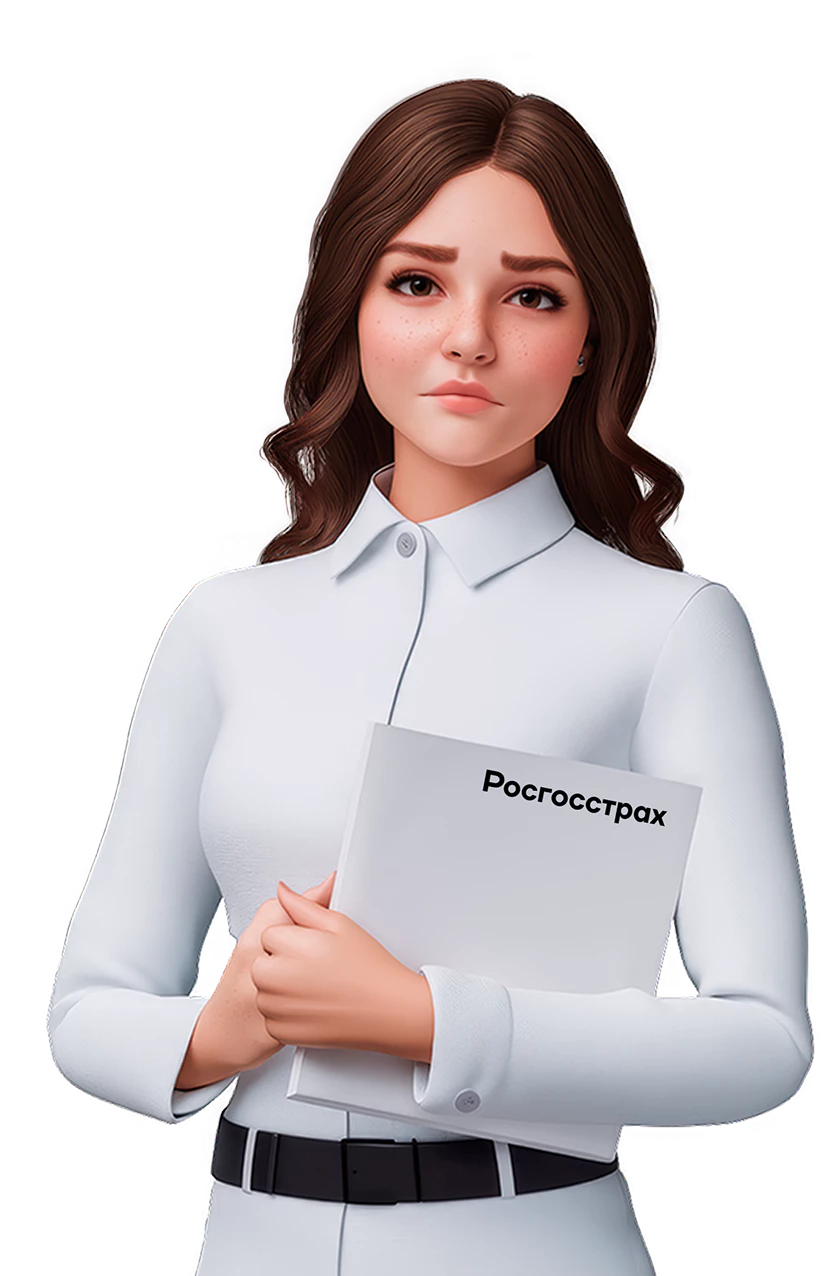
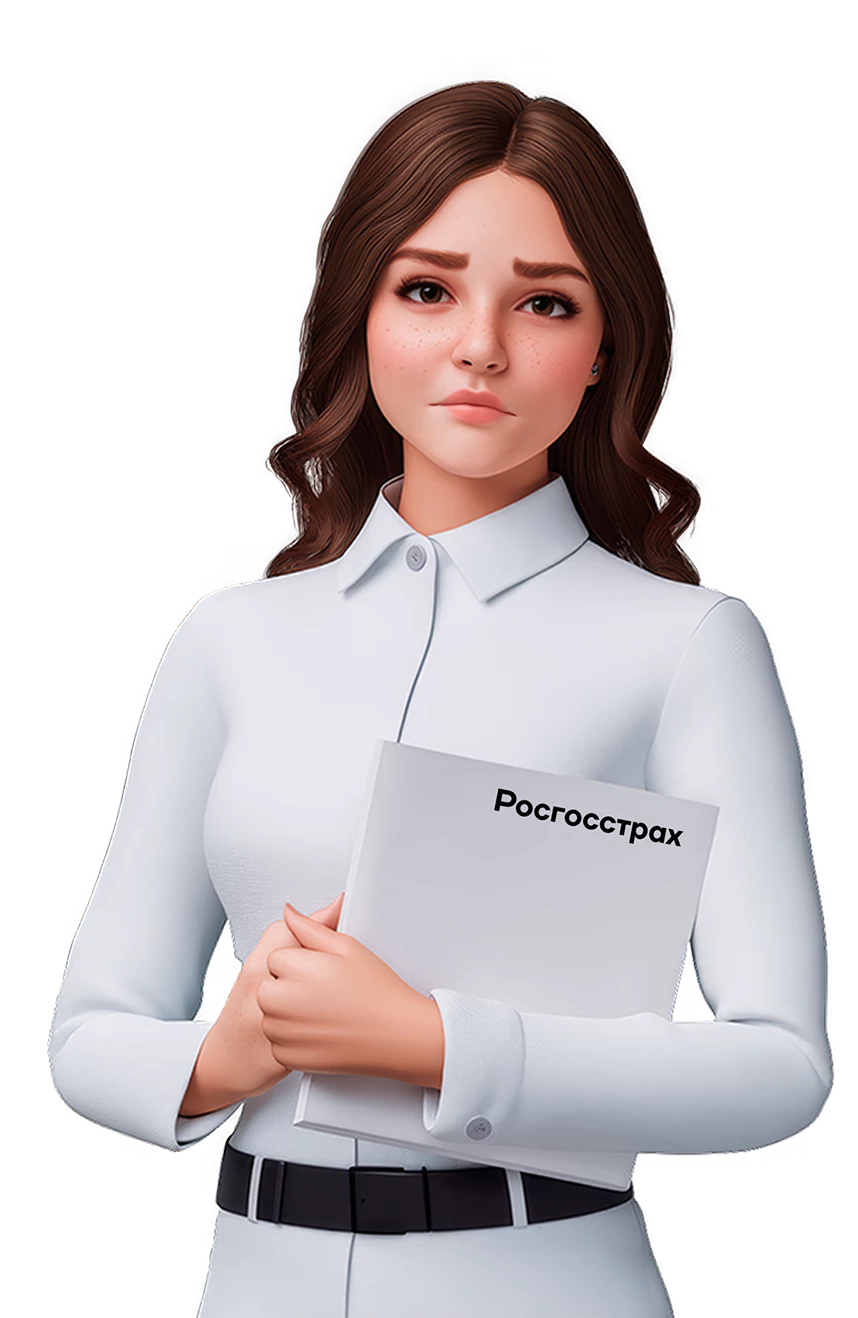
6.03

diff --git a/src/pages/voltagePage/VoltagePage.js b/src/pages/voltagePage/VoltagePage.js
@@ -1,16 +1,30 @@
-import React, { useState } from 'react'
+import React, { useState, useEffect } from 'react'
 import Replica from '../../components/replica/Replica'
 import СontrolPanel from '../../components/controlPanel/СontrolPanel'
-
+import VoltageFinal from '../../components/voltageFinal/VoltageFinal'
 import { voltageScreens } from './voltageScreens'
 import coinIcon from '../../resources/voltage/coin_icon.svg'
-
 import './VoltagePage.scss'
-//img
 
 function VoltagePage() {
 	// Состояние для текущего индекса экрана
 	const [currentScreen, setCurrentScreen] = useState(0)
+
+	// Предзагрузка всех фоновых изображений при монтировании
+	useEffect(() => {
+		const images = [
+			require('../../resources/voltage/volt_bg_1.webp'),
+			require('../../resources/voltage/volt_bg_2.webp'),
+			require('../../resources/voltage/volt_bg_3.webp'),
+			require('../../resources/voltage/volt_bg_4.webp'),
+			require('../../resources/voltage/volt_bg_5.webp'),
+			require('../../resources/voltage/volt_bg_6.webp'),
+		]
+		images.forEach(src => {
+			const img = new Image()
+			img.src = src
+		})
+	}, []) // Пустой массив зависимостей — выполняется один раз при монтировании
 
 	// Хендлер переключения
 	const handleNextScreen = () => {
@@ -34,27 +48,23 @@ function VoltagePage() {
 		textButton,
 		invisibleButtonProps,
 		coinIconProps,
+		voltageFinal,
 	} = voltageScreens[currentScreen]
 
 	return (
 		<div className={`screen ${bgClassName || ''}`}>
-			{/* <img className='screen__bg' src={bg} alt='background' /> */}
-
 			{sidebar && (
 				<div className='screen__sidebar-wrapper'>
 					<img src={sidebar} alt='sidebar' />
 				</div>
 			)}
-
 			{boy && <img className='screen__boy' src={boy} alt='boy' />}
-
 			{replicaBoyProps.replicaText && (
 				<Replica
 					text={replicaBoyProps.replicaText}
 					className={replicaBoyProps.className}
 				/>
 			)}
-
 			{womanProps.woman && (
 				<img
 					className={`screen__woman ${womanProps.className || ''}`}
@@ -62,7 +72,6 @@ function VoltagePage() {
 					alt='woman'
 				/>
 			)}
-
 			{replicaWomanProps.replicaText && (
 				<Replica
 					text={replicaWomanProps.replicaText}
@@ -70,7 +79,6 @@ function VoltagePage() {
 					span={replicaWomanProps.replicaTextSpan}
 				/>
 			)}
-
 			{textСontrolPanel && (
 				<СontrolPanel
 					textBtn={textButton}
@@ -78,14 +86,12 @@ function VoltagePage() {
 					onNext={handleNextScreen}
 				/>
 			)}
-
 			{invisibleButtonProps.isVisible && (
 				<button
 					className={`invisible-button ${invisibleButtonProps.className || ''}`}
 					onClick={handleNextScreen}
 				></button>
 			)}
-
 			{coinIconProps.coinIcon && (
 				<img
 					className={`coin-icon ${coinIconProps.className || ''}`}
@@ -93,6 +99,8 @@ function VoltagePage() {
 					alt='icon'
 				/>
 			)}
+
+			{voltageFinal && <VoltageFinal />}
 		</div>
 	)
 }

diff --git a/src/components/voltageFinal/VoltageFinal.js b/src/components/voltageFinal/VoltageFinal.js
@@ -3,6 +3,7 @@ import React, { useState } from 'react'
 // img
 import icon1 from '../../resources/voltage/key_icon.svg'
 import icon2 from '../../resources/voltage/speaker_icon.svg'
+import attentionIcon from '../../resources/voltage/attention_icon.svg'
 
 import './VoltageFinal.scss'
 
@@ -38,10 +39,48 @@ function VoltageFinal() {
 
 			<p className='title'>Когда необходимо включить этот риск в полис?</p>
 
-			<ul>
-				<li></li>
-				<li></li>
+			<ul className='list-one'>
+				<li>Дом построен в 90-х или раньше.</li>
+				<li>У вас дорогостоящая техника.</li>
 			</ul>
+
+			<div className='accent'>
+				Добавить риск «Скачок напряжения» получится, только если один из рисков
+				— пожар, затопление или кража — уже включены в полис.
+			</div>
+
+			<div className='exception'>
+				<div className='column'>
+					<p className='title'>Важно</p>
+					<span>
+						За каждую вещь можно компенсировать до 10% от общего лимита
+						«Движимое имущество».
+					</span>
+					<span>
+						Например, вы поставили лимит — 500 000 ₽. Значит, телевизор за 50
+						000 ₽ можно компенсировать полностью.
+					</span>
+				</div>
+
+				<div className='column'>
+					<p className='title'>Исключение</p>
+					<ul>
+						<li>
+							Включили приборы, не предназначенные для бытового использования,
+							чем вызвали перегрузку сети.
+						</li>
+						<li>Вы использовали технику не по назначению.</li>
+					</ul>
+				</div>
+			</div>
+
+			<div className='accent'>
+				<img src={attentionIcon} alt='icon' />
+				Это демоверсия исключений, мы уместили только некоторые, 
+				<a href='##'>вот основные</a> .
+			</div>
+
+			<button className='btn'>Получить главный приз</button>
 		</div>
 	)
 }

diff --git a/src/components/voltageFinal/VoltageFinal.scss b/src/components/voltageFinal/VoltageFinal.scss
@@ -1,0 +1,145 @@
+.voltage-final {
+	background: #fff;
+	width: 60%;
+	border-radius: 48px;
+	filter: drop-shadow(0 4px 30px rgba(0, 0, 0, 0.25));
+
+	position: absolute;
+	left: 32%;
+	top: 10%;
+
+	padding: 36px 40px 28px;
+
+	svg {
+		position: absolute;
+		left: -82px;
+		top: 180px;
+	}
+
+	.title {
+		font-weight: 400;
+		font-size: 32px;
+		line-height: 90%;
+		color: #1a1d1e;
+	}
+
+	.wrapper {
+		display: flex;
+		align-items: center;
+		gap: 16px;
+		margin: 24px 0 32px;
+
+		.column {
+			width: 50%;
+			background: #f0f6f6;
+			border-radius: 20px;
+			overflow: hidden;
+			height: 90px;
+			padding: 16px;
+			position: relative;
+
+			p {
+				font-weight: 400;
+				font-size: 18px;
+				line-height: 130%;
+				color: #1a1d1e;
+			}
+
+			img {
+				position: absolute;
+				right: 26px;
+			}
+
+			&:first-child {
+				img {
+					bottom: -70px;
+				}
+			}
+			&:last-child {
+				img {
+					bottom: -80px;
+				}
+			}
+		}
+	}
+
+	.list-one {
+		display: flex;
+		align-items: center;
+		gap: 24px;
+		margin: 16px 0 24px;
+		list-style: disc;
+		li {
+			width: 50%;
+			font-weight: 400;
+			font-size: 18px;
+			line-height: 150%;
+			color: #1a1d1e;
+			margin-left: 20px;
+			padding-right: 20px;
+		}
+	}
+
+	.accent {
+		border-radius: 20px;
+		background: #f0f6f6;
+		padding: 16px 20px 20px;
+		margin-bottom: 32px;
+
+		display: flex;
+		align-items: center;
+		font-weight: 400;
+		font-size: 18px;
+		line-height: 140%;
+		color: #000;
+		img {
+			margin-right: 12px;
+		}
+		a {
+			color: #000;
+			font-weight: 600;
+			text-decoration: underline;
+		}
+	}
+
+	.exception {
+		display: flex;
+		gap: 24px;
+		margin-bottom: 24px;
+
+		.column {
+			width: 50%;
+		}
+
+		.title {
+			margin-bottom: 12px;
+		}
+
+		span {
+			display: block;
+			font-weight: 400;
+			font-size: 18px;
+			line-height: 140%;
+			color: #1a1d1e;
+			margin-bottom: 8px;
+		}
+		ul {
+			list-style: disc;
+			li {
+				font-weight: 400;
+				font-size: 18px;
+				line-height: 150%;
+				color: #1a1d1e;
+				margin-left: 20px;
+				padding-right: 20px;
+			}
+		}
+	}
+
+	.btn {
+		border: 10px solid #fff;
+		position: absolute;
+		right: 60px;
+		bottom: -40px;
+	}
+}

diff --git a/src/pages/voltagePage/voltageScreens.js b/src/pages/voltagePage/voltageScreens.js
@@ -38,6 +38,7 @@ export const voltageScreens = [
 			coinIcon: false,
 			className: '',
 		},
+		voltageFinal: false,
 	},
 	{
 		id: 2,
@@ -68,6 +69,7 @@ export const voltageScreens = [
 			coinIcon: false,
 			className: '',
 		},
+		voltageFinal: false,
 	},
 	{
 		id: 3,
@@ -97,6 +99,7 @@ export const voltageScreens = [
 			coinIcon: false,
 			className: '',
 		},
+		voltageFinal: false,
 	},
 	{
 		id: 4,
@@ -126,6 +129,7 @@ export const voltageScreens = [
 			coinIcon: true,
 			className: 'coin-icon__screen3',
 		},
+		voltageFinal: false,
 	},
 	{
 		id: 5,
@@ -155,6 +159,7 @@ export const voltageScreens = [
 			coinIcon: true,
 			className: 'coin-icon__screen4',
 		},
+		voltageFinal: false,
 	},
 	{
 		id: 6,
@@ -184,6 +189,7 @@ export const voltageScreens = [
 			coinIcon: true,
 			className: 'coin-icon__screen5',
 		},
+		voltageFinal: false,
 	},
 	{
 		id: 7,
@@ -213,6 +219,7 @@ export const voltageScreens = [
 			coinIcon: true,
 			className: 'coin-icon__screen6',
 		},
+		voltageFinal: false,
 	},
 	{
 		id: 8,
@@ -244,6 +251,7 @@ export const voltageScreens = [
 			coinIcon: false,
 			className: '',
 		},
+		voltageFinal: false,
 	},
 	{
 		id: 9,
@@ -276,6 +284,7 @@ export const voltageScreens = [
 			coinIcon: false,
 			className: '',
 		},
+		voltageFinal: false,
 	},
 	{
 		id: 10,
@@ -306,5 +315,6 @@ export const voltageScreens = [
 			coinIcon: false,
 			className: '',
 		},
+		voltageFinal: true,
 	},
 ]
